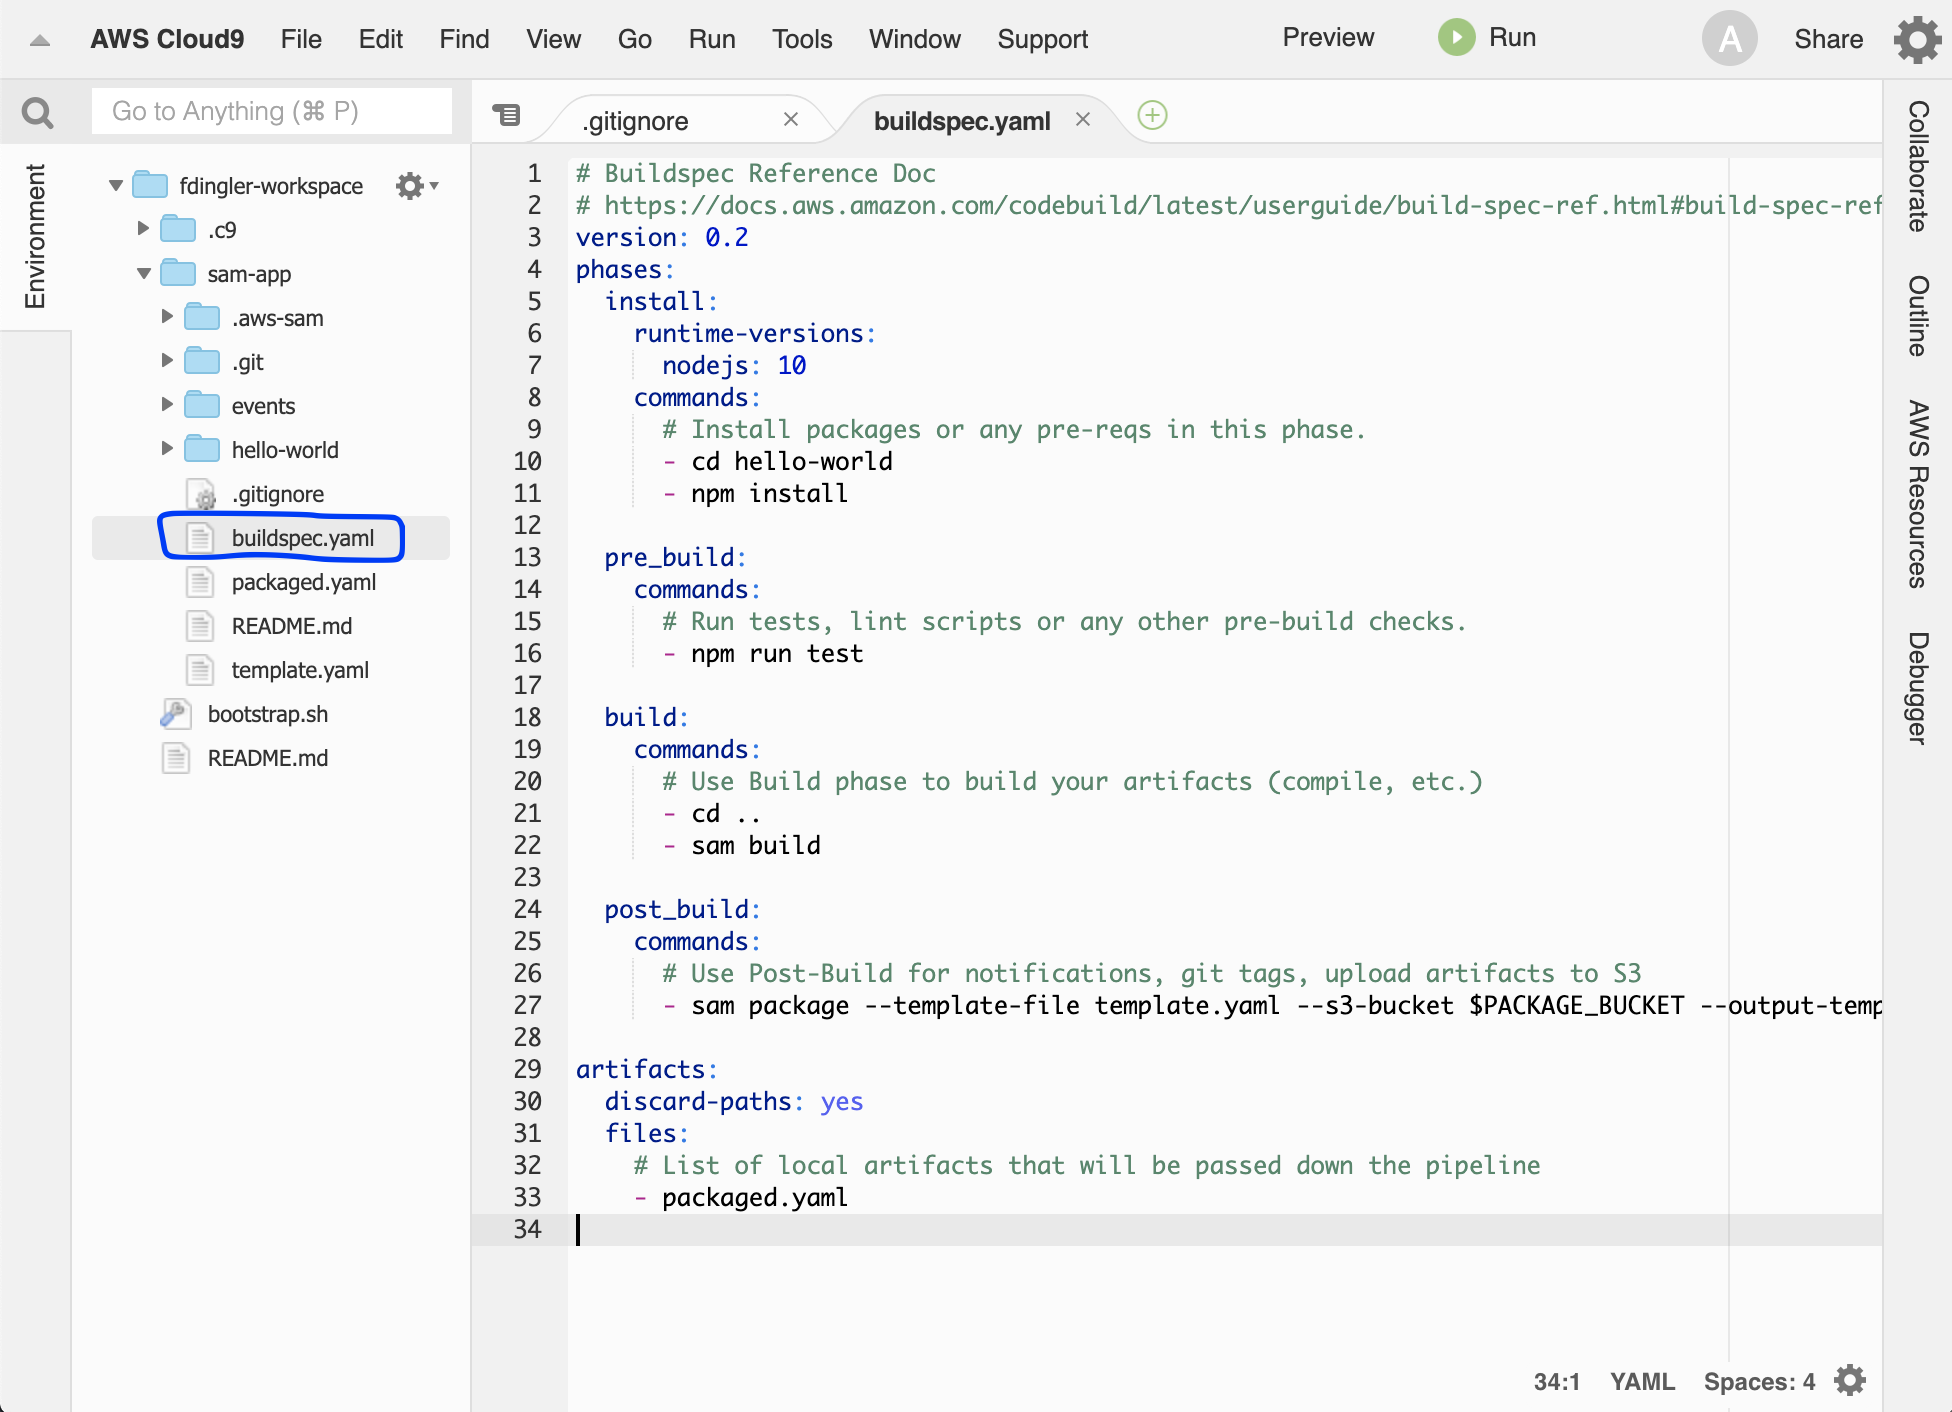
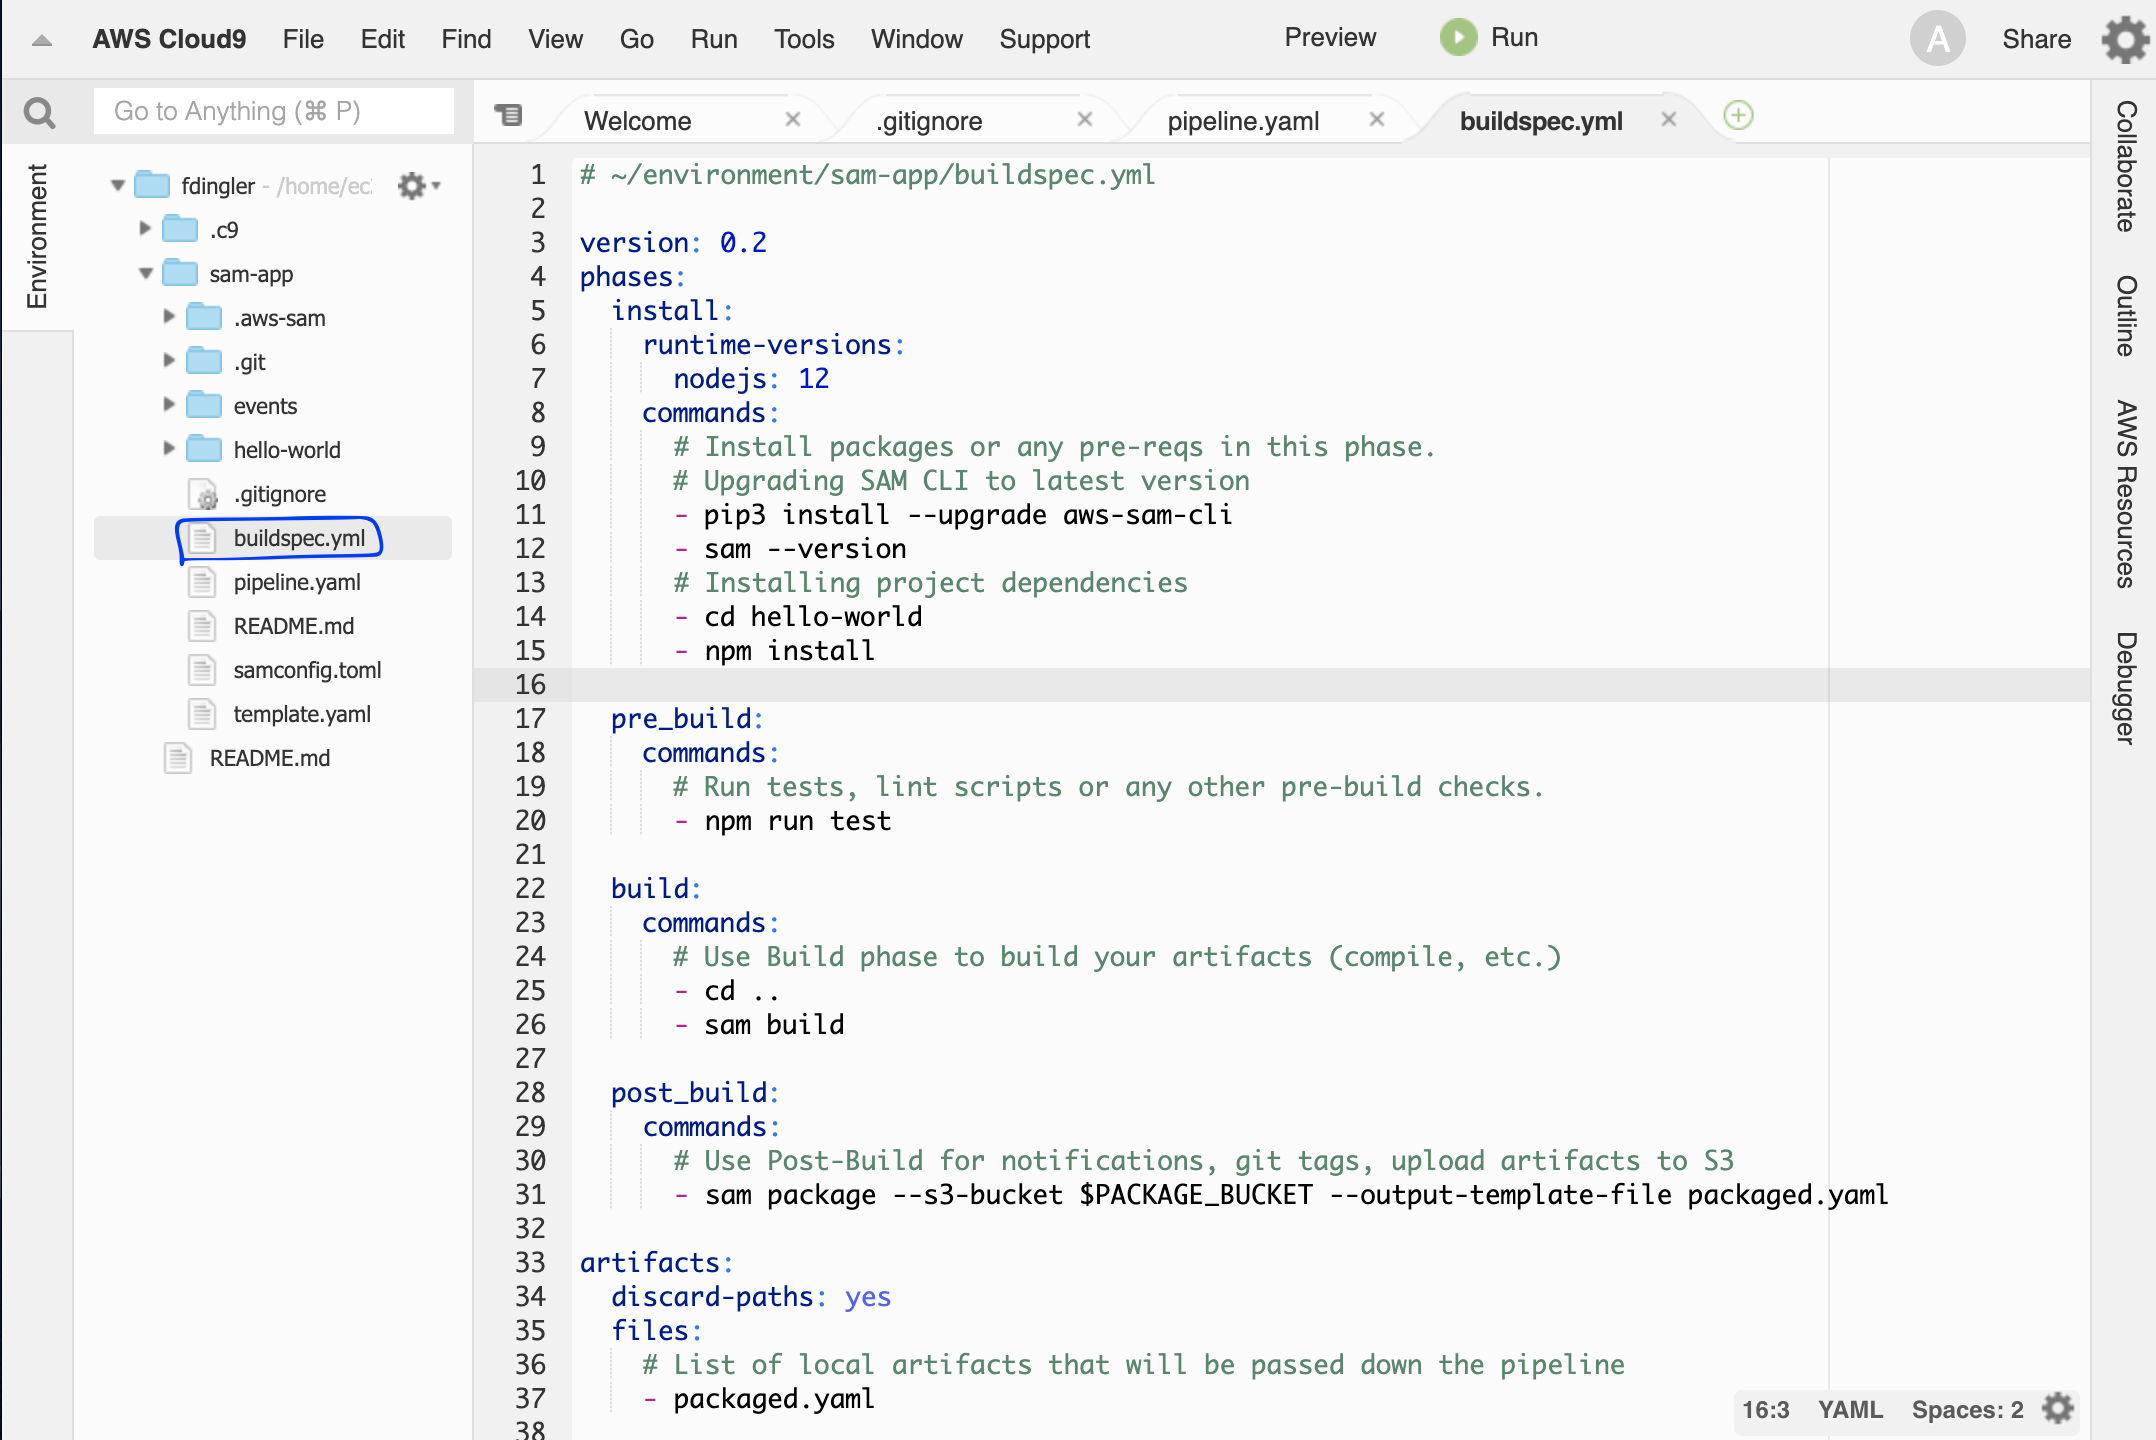
Upgrading sam-app to nodejs 12 in CodeBuild

diff --git a/workshop/content/buildpipe/pipeline/_index.en.md b/workshop/content/buildpipe/pipeline/_index.en.md
@@ -38,7 +38,7 @@ The source stage is the first step of any pipeline and it points to your source 
 
 The build phase uses AWS CodeBuild as the build provider. But CodePipeline supports other providers like Jenkins, TeamCity or CloudBees. CodeBuild is a great option because you only pay for the time when your build is running, which makes it very cost effective. 
 
-A CodeBuild project has information about the build environment. A build environment represents a combination of operating system (Linux or Windows), compute size (Small, Medium, Large) and a Docker image where the build runs. You can bring your own Docker image or [use the managed images](https://docs.aws.amazon.com/codebuild/latest/userguide/build-env-ref-available.html) provided by the service. In this case, we are using the managed image for Amazon Linux 2: aws/codebuild/amazonlinux2-x86_64-standard:1.0.
+A CodeBuild project has information about the build environment. A build environment represents a combination of operating system (Linux or Windows), compute size (Small, Medium, Large) and a Docker image where the build runs. You can bring your own Docker image or [use the managed images](https://docs.aws.amazon.com/codebuild/latest/userguide/build-env-ref-available.html) provided by the service. In this case, we are using the managed image for Amazon Linux 2: aws/codebuild/amazonlinux2-x86_64-standard:2.0.
 
 ![BuildStage](/images/screenshot-pipeline-yaml-build.png)
 

diff --git a/workshop/content/buildpipe/buildspec/_index.en.md b/workshop/content/buildpipe/buildspec/_index.en.md
@@ -21,9 +21,13 @@ version: 0.2
 phases:
   install:
     runtime-versions:
-      nodejs: 10
+      nodejs: 12
     commands:
       # Install packages or any pre-reqs in this phase.
+      # Upgrading SAM CLI to latest version
+      - pip3 install --upgrade aws-sam-cli
+      - sam --version
+      # Installing project dependencies
       - cd hello-world
       - npm install
   
